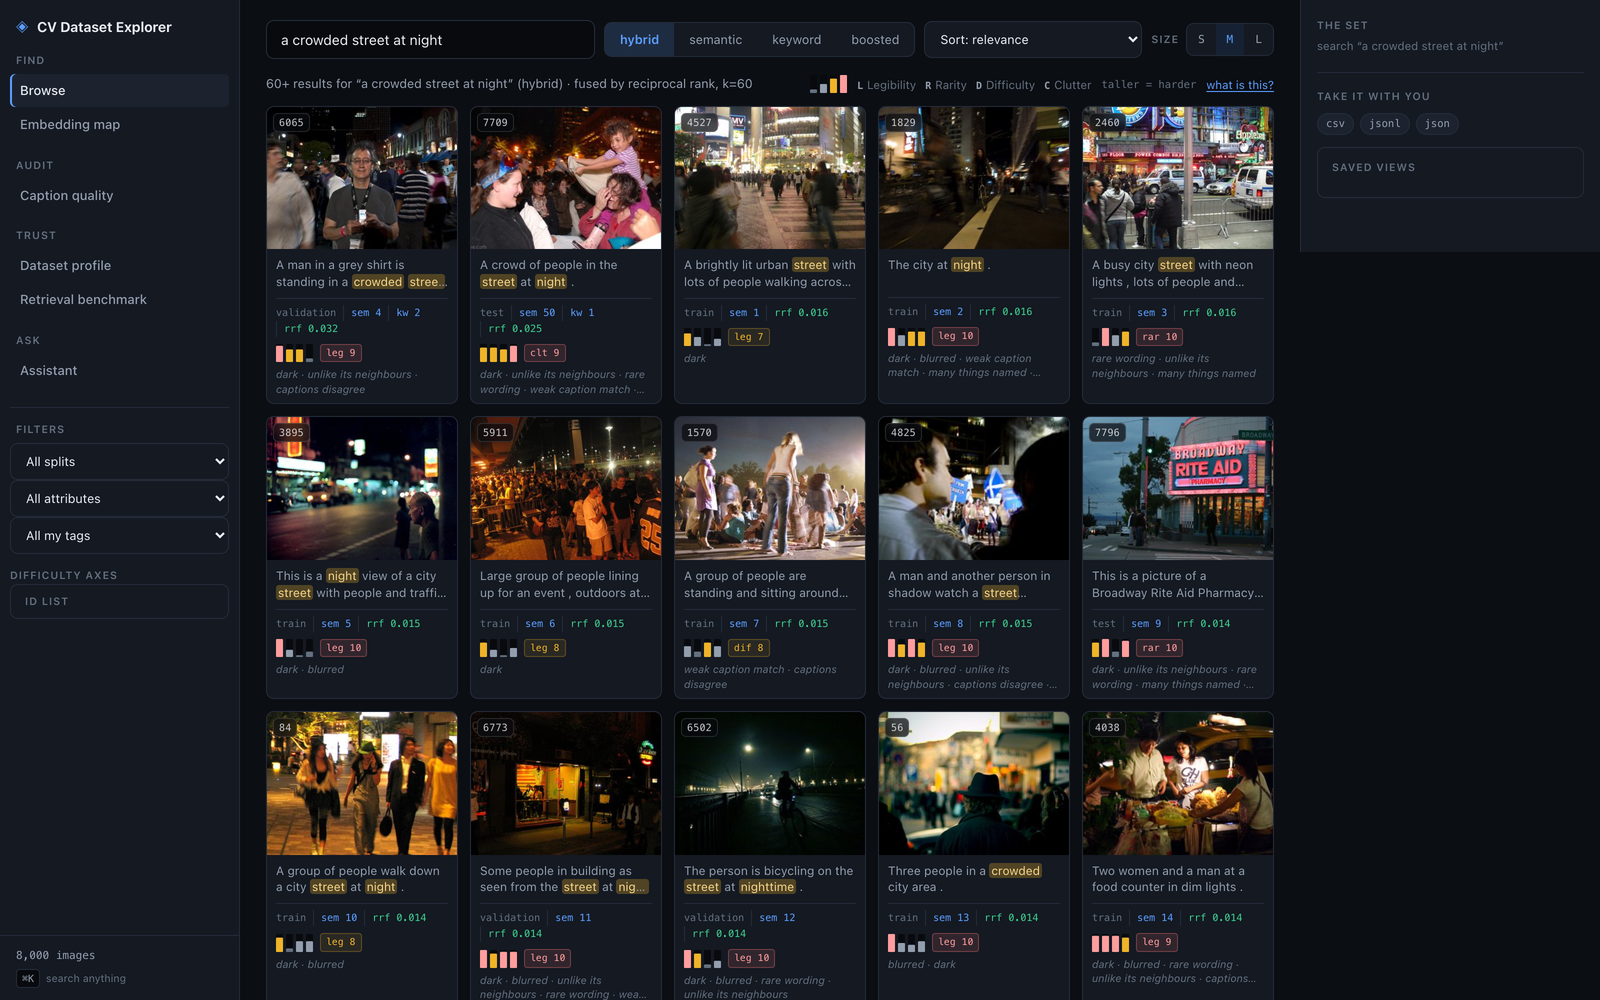
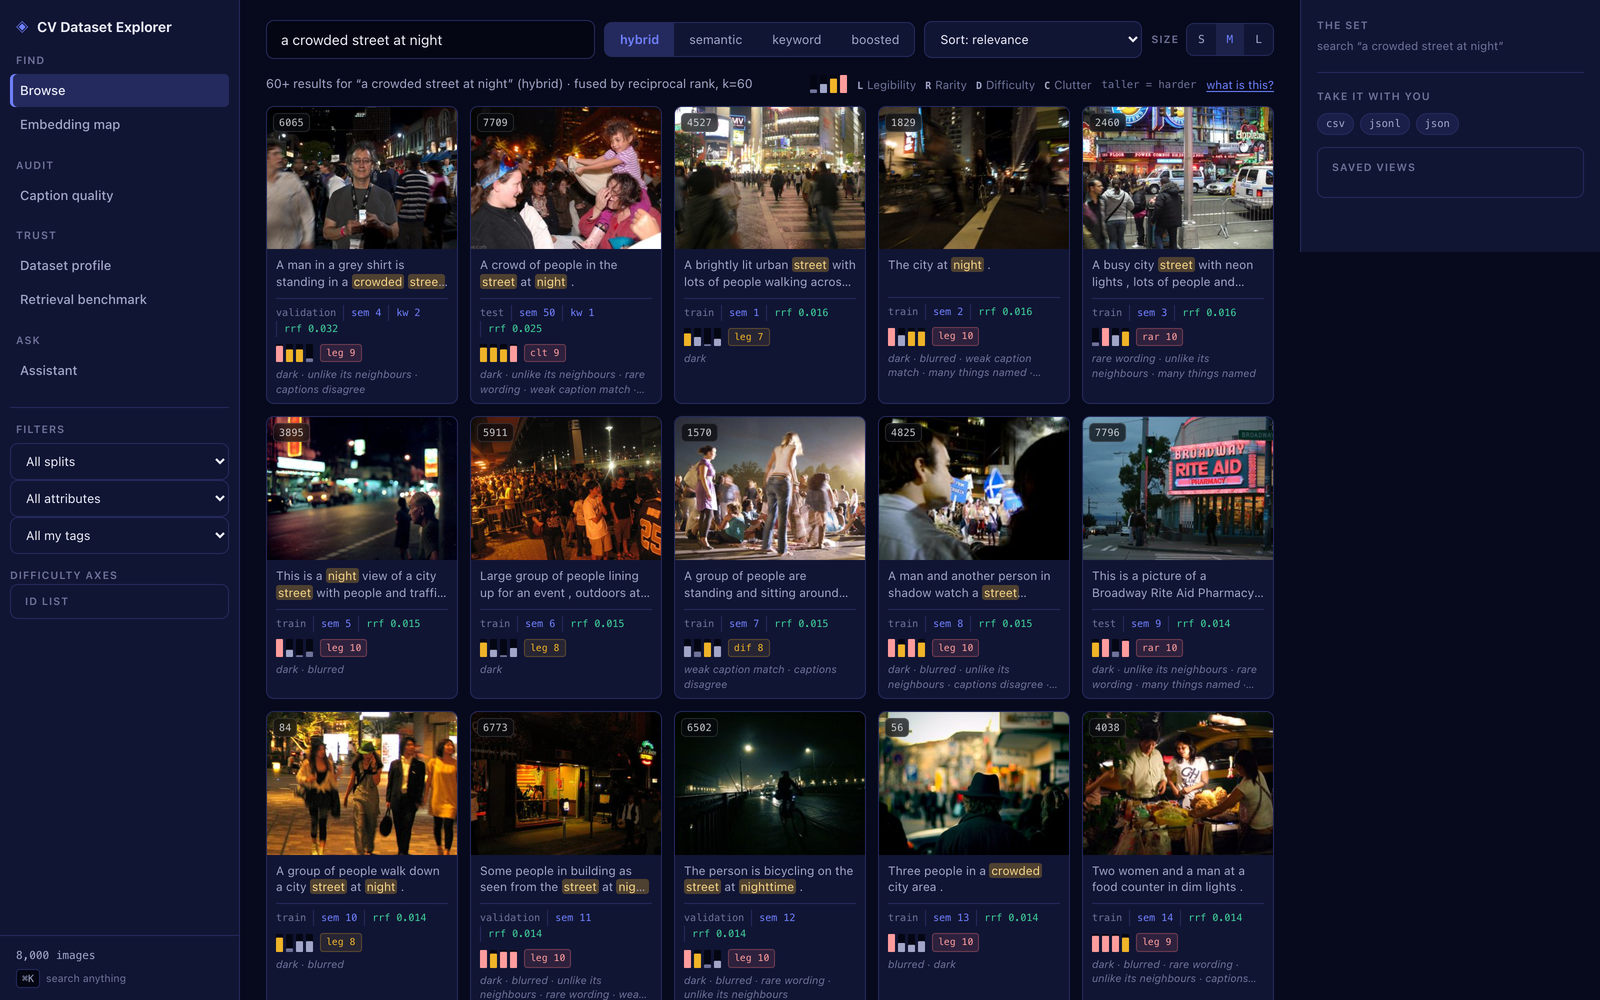
Retune the palette onto Mobileye's blue
The colours were a generic slate: neutrals at hue 217 with a sky-blue #5b9dff
accent. Mobileye's own surfaces sit at hue 233 -- a deep ultramarine, #1637be
and #1e2eb8 across nearly a hundred link and button nodes on mobileye.com, with
periwinkle #98a1ff as its light tint. Those values were read off the rendered
page rather than guessed.

The first attempt at this rotated the hue onto that value while holding the
lightness ladder exactly, reasoning that preserving lightness preserves every
contrast relationship the layout depends on. That was true and useless. At 6%
lightness a hue rotation has nowhere to show: measured after the fact, the page
background moved dE 1.78 and bg-raised dE 3.66, both at or below the threshold
of noticing, so 97% of the pixels looked untouched. Only the accent, at dE 29,
actually changed -- and it covers about one percent of the screen.

Saturation is what makes a hue visible in the dark. These surfaces carry 44-62%
of it rather than the original ~25%, and the lightness ladder is nudged rather
than frozen: background dE 8.5, raised 16.8, hover 21.7, borders 25.6. The rails
now separate from the centre pane by dE 13, so the chrome reads as indigo panels
instead of neutral ones.

Contrast re-verified against the new base, not inherited from the old: text
17.0:1, dim text 8.3:1, accent 5.8:1, faint text 4.3:1, white on #1637be 9.0:1.
All AA.

--accent-deep carries #1637be itself, unlifted, for the one case that can take
[…]

diff --git a/frontend/src/index.css b/frontend/src/index.css
@@ -9,24 +9,35 @@
  * No web fonts by design — the app must run with no network (see README).
  */
 :root {
-  /* Surfaces: four steps, spaced far enough apart to read as a hierarchy. */
-  --bg: #0b0e13;
-  --bg-raised: #141922;
-  --bg-hover: #1c232e;
-  --bg-inset: #080a0e;
-  --border: #242c39;
-  --border-strong: #35404f;
+  /* Surfaces: four steps, spaced far enough apart to read as a hierarchy, and
+     carrying real chroma rather than a token amount of it. A first pass rotated
+     the hue onto the brand while holding the lightness ladder exactly, which was
+     arithmetically a Mobileye palette and perceptually nothing: the page
+     background moved dE 1.78, below the threshold of noticing, so 97% of the
+     pixels looked unchanged. Saturation is what makes a hue visible at 7%
+     lightness, so these carry 44-62% of it and the background now moves dE 8.5. */
+  --bg: #070a1c;
+  --bg-raised: #111534;
+  --bg-hover: #191f48;
+  --bg-inset: #040613;
+  --border: #242a5c;
+  --border-strong: #363d78;
 
   /* Ink: three tiers, so micro-labels can recede without vanishing. */
-  --text: #e9ecf2;
-  --text-dim: #939eae;
-  --text-faint: #64707f;
+  --text: #eceefa;
+  --text-dim: #a2a6c8;
+  --text-faint: #6f739a;
 
-  --accent: #5b9dff;
-  --accent-soft: rgba(91, 157, 255, 0.14);
-  --green: #3ecf8e;
-  --amber: #f0b429;
-  --red: #ff7a7a;
+  /* Mobileye's blue. The core #1637be is too dark to serve as an accent on a
+     near-black surface, so --accent is that same hue at the lightness this
+     design was already tuned for, and --accent-deep keeps the brand value
+     itself for solid fills that carry white text. */
+  --accent: #6f80ff;
+  --accent-deep: #1637be;
+  --accent-soft: rgba(111, 128, 255, 0.20);
+  --green: #3fcf9a;
+  --amber: #f0b428;
+  --red: #ff7f7a;
 
   --radius: 8px;
   --radius-sm: 5px;
@@ -124,8 +135,11 @@ body {
 /* The active marker is a left edge, not an underline: in a vertical list the
    edge reads as "you are here on this branch" rather than as a divider. */
 .rail-link.active {
-  color: var(--text); background: var(--bg-hover);
-  box-shadow: inset 2px 0 0 var(--accent);
+  /* The active state carries the brand rather than a neutral highlight: a
+     grey-on-grey selection would leave the blue nowhere on a page whose whole
+     centre is photographs. */
+  color: var(--text); background: var(--accent-soft);
+  box-shadow: inset 3px 0 0 var(--accent);
 }
 
 .rail-foot {
@@ -525,8 +539,11 @@ select:hover { border-color: var(--border-strong); }
 /* A set hand-off is a link, not a button — it navigates, and should be
    middle-clickable and copyable like any other link. It shares the primary
    look because it is the primary action wherever it appears. */
+/* The one place the brand blue appears at full strength rather than lifted for
+   legibility: a solid fill carrying white, which is how it is used on Mobileye's
+   own surfaces. 9.0:1 against white, so it earns the weight honestly. */
 button.primary, a.primary.button-link {
-  background: var(--accent); color: #06121f; border: none; padding: 10px 22px;
+  background: var(--accent-deep); color: #ffffff; border: none; padding: 10px 22px;
   border-radius: var(--radius); font-size: 13.5px; font-weight: 650; cursor: pointer;
   font-family: var(--font-sans); transition: filter 0.12s;
 }

diff --git a/frontend/src/lib/viz.ts b/frontend/src/lib/viz.ts
@@ -23,19 +23,19 @@
  * canvas and recharts cannot read CSS variables; index.css remains the source
  * of truth for anything the DOM styles. */
 export const SURFACE = {
-  bg: "#0b0e13",
-  raised: "#141922",
-  hover: "#1c232e",
-  inset: "#080a0e",
-  border: "#242c39",
-  borderStrong: "#35404f",
-  text: "#e9ecf2",
-  textDim: "#939eae",
-  textFaint: "#64707f",
-  accent: "#5b9dff",
-  green: "#3ecf8e",
-  amber: "#f0b429",
-  red: "#ff7a7a",
+  bg: "#070a1c",
+  raised: "#111534",
+  hover: "#191f48",
+  inset: "#040613",
+  border: "#242a5c",
+  borderStrong: "#363d78",
+  text: "#eceefa",
+  textDim: "#a2a6c8",
+  textFaint: "#6f739a",
+  accent: "#6f80ff",
+  green: "#3fcf9a",
+  amber: "#f0b428",
+  red: "#ff7f7a",
 } as const;
 
 // -------------------------------------------------------------- recharts ----
@@ -100,8 +100,8 @@ export function diverging(t: number): string {
 
 /** Categorical palette for nominal values such as cluster id or split. */
 export const CATEGORICAL = [
-  "#5b9dff", "#3ecf8e", "#f0b429", "#c792ea", "#4dd0e1",
-  "#ff9d9d", "#aed581", "#ffb74d", "#90a4ae", "#7986cb",
+  "#6f80ff", "#3fcf9a", "#f0b428", "#c792ea", "#4dd0e1",
+  "#ff9d9d", "#aed581", "#ffb74d", "#90a4ae", "#b39ddb",
   "#f48fb1", "#80cbc4",
 ] as const;
 
